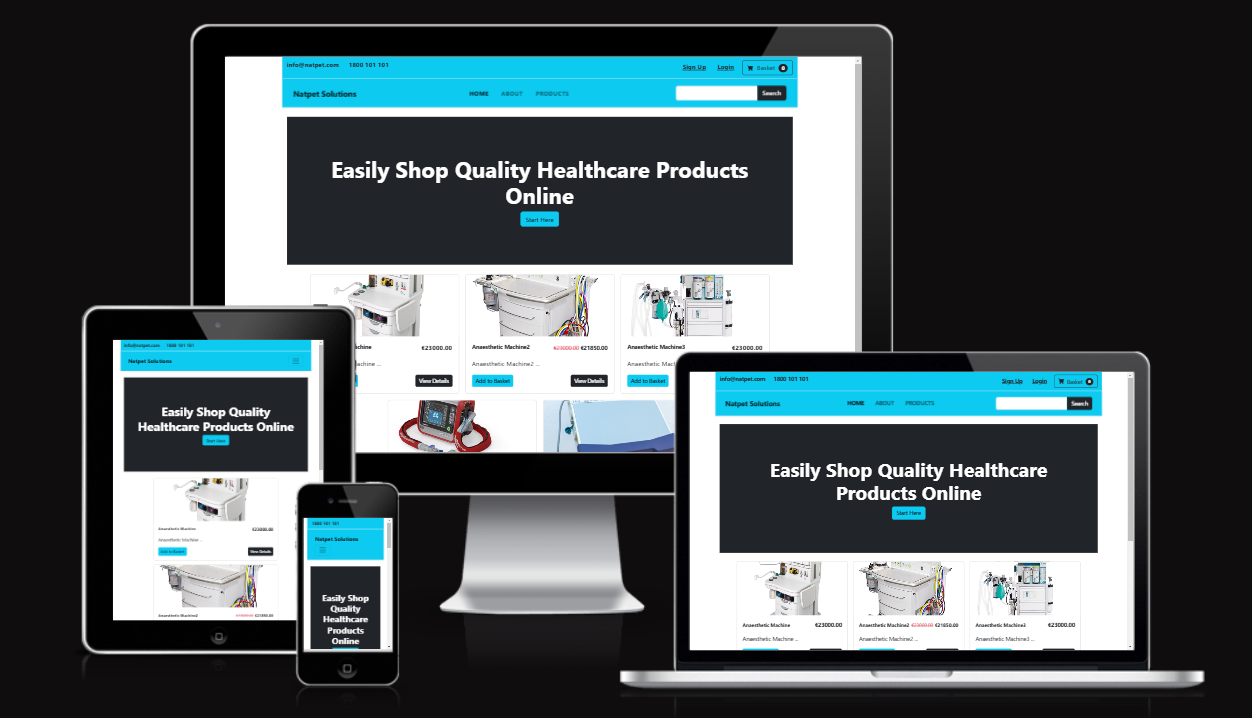
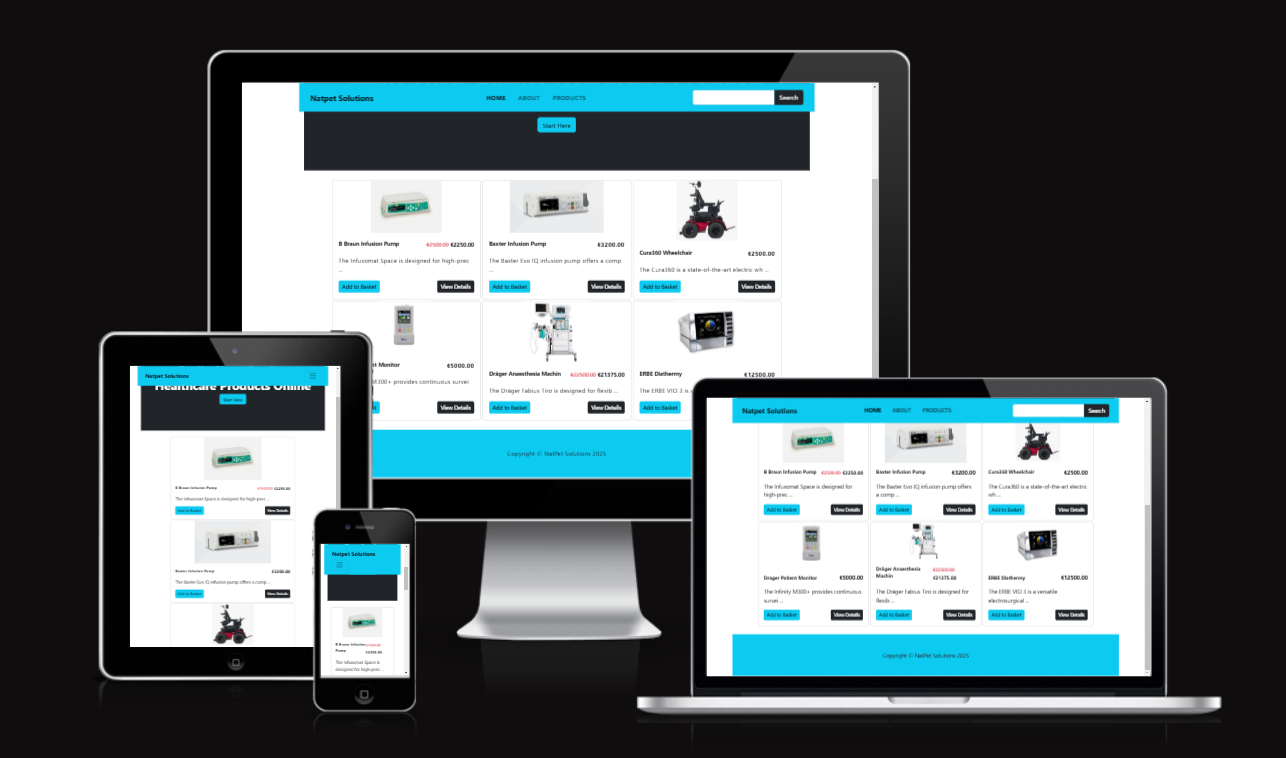
Adding images to README, Fixed search query

diff --git a/products/templates/products/product_list.html b/products/templates/products/product_list.html
@@ -52,7 +52,7 @@
                         <img src="{{product.image.url}}" class="card-img-top" alt="{{product.name}}">
                     </div>
                     <div class="card-body">
-                        <small class="card-title fw-bold">{{product.name|slice:":25"}}</small>
+                        <small class="card-title fw-bold">{{product.name|slice:":50"}}</small>
                         {% if product.discount %}
                         <div class="d-flex justify-content-between"><span class="text-danger"><s>€{{product.price|floatformat:2}}</s></span>
                             <span class="fw-bold">€{{product.discounted_price|floatformat:2}}</span>

diff --git a/products/utils.py b/products/utils.py
@@ -3,13 +3,10 @@ from products.models import Category, Manufacturer, Product
 
 
 def search_all_models(query):
+    results = Product.objects.filter(
+        name__icontains=query
+    ) | Product.objects.filter(
+        description__icontains=query
+    )
 
-    vector = SearchVector('name', 'description')
-
-    print("searching for {}".format(query))
-
-    query = SearchQuery(query)
-
-    results = Product.objects.annotate(search=vector).filter(search=query)
-
-    return results
+    return results.distinct()

diff --git a/README.md b/README.md
@@ -97,7 +97,73 @@ The Relationship diagram for the DBMS consists of the following tables: Manufact
 
 ### Existing Features
 
-#### Header:
+
+-  **F01 Navigation Bar**
+
+      The navigation bar is a crucial element of the e-commerce site, providing users with easy access to various sections. The following features are included namely:
+      - **Home :** A link to the homepage showcasing featured products
+      - **Product :** A quick access to products
+      - **Search Bar :** A prominent search feature enabling users to quickly find specific products.
+      - **About :** Information about the company, its mission, and values.
+      - **Contact :** Contact information, including email and phone for quick request for equipment full details.
+      - **Account :** A user account section for login, registration, order history, and profile management.
+      - **Basket :** A quick-access basket icon showing the number of items in the basket.
+
+      Landing Page Navbar
+
+      ![Navbar Full](documentation/images/landing-page-navbar.png)
+
+      Navbar Full Signed in as Admin
+
+      ![Navbar Full](documentation/images/admin-navbar.png)
+
+      Navbar Full Signed in as User
+
+      ![Navbar Full Signed in](documentation/images/login-user-navbar.png)
+
+      Navbar Burger Signed-In Menu
+
+      ![Navbar Burger](documentation/images/burger-navbar.png)
+
+-  **F02 Landing page image**
+
+      The landing page is user-friendly, visually appealing, and informative, ensuring that visitors can easily navigate through the offerings of the medical equipment supply shop. It aims to establish trust and credibility while providing a seamless shopping experience. The start button service as a quick way for the visitor to view products. 
+
+      ![Landing Area](documentation/images/landing-page.png)
+
+-  **F03 Product page image**
+
+      The product page is a crucial component of this online shopping experience, it presents detailed information about medical equipment, helping customers make informed purchasing decisions. This description covers the essential features and functionalities that should be included in the product detailed view.
+
+      ![Product Area](documentation/images/product-page.png)
+
+      Diagnostic Equipment Products Category Page
+
+      ![Diagnostic Equipment Product Area](documentation/images/diagnostic-equipment.png)
+
+      Life Support Equipment Products Category Page
+
+      ![Life Support Equipment Product Area](documentation/images/life-support-equipment.png)
+
+      Patient Care Equipment Products Category Page
+
+      ![Patient Care Equipment Product Area](documentation/images/patient-care-equipment.png)
+
+      Surgical Equipment Products Category Page
+
+      ![Surgical Equipment Product Area](documentation/images/surgical-equipment.png)
+
+      Therapeutic Equipment Products Category Page
+
+      ![Therapeutic Equipment Product Area](documentation/images/therapeutic-equipment.png)
+
+      Infection Control Equipment Products Category Page
+
+      ![Infection Control Equipment Product Area](documentation/images/infection-control-equipment.png)
+
+      Mobility Aids Equipment Products Category Page
+
+      ![Mobility Aids Equipment Product Area](documentation/images/mobility-aids.png)
 
 
 
